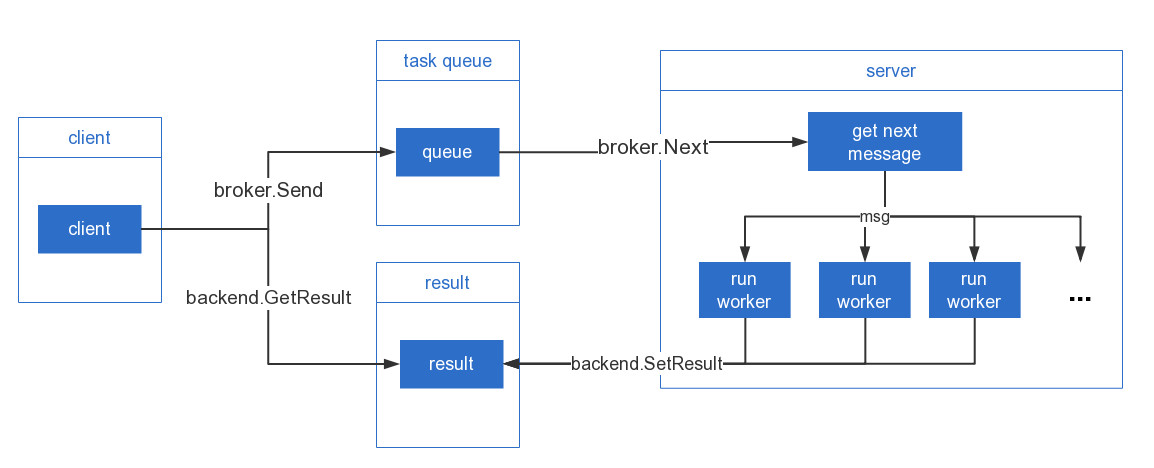
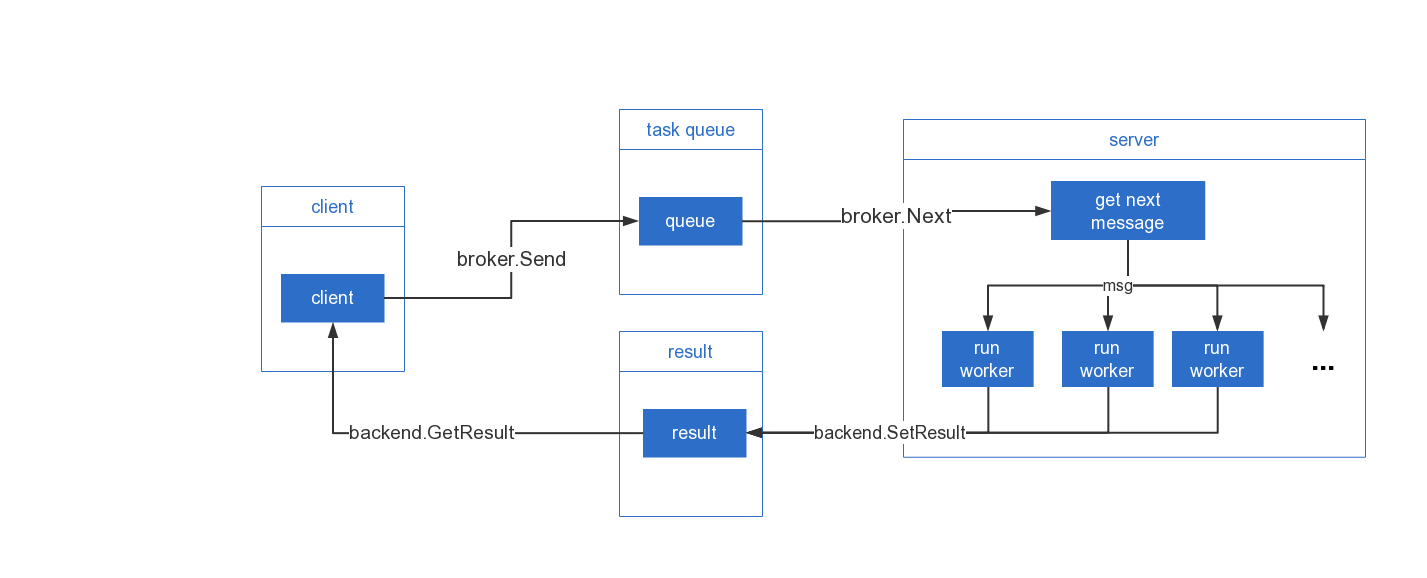
architecture_diagram

diff --git a/README.ZH.md b/README.ZH.md
@@ -10,6 +10,8 @@ golang异步任务/队列 框架
 ```bash
 go get github.com/gojuukaze/YTask
 ```
+# 架构图
+<img src="./architecture_diagram.png" alt="architecture_diagram" width="75%">
 
 # todo
 - [x] save result  
@@ -19,6 +21,7 @@ go get github.com/gojuukaze/YTask
 - [ ] 扩展TaskCtl参数
 - [ ] 支持更多类型
 
+# 文档
 * [快速开始](#快速开始)
   * [server样例](#server-demo)
   * [client样例](#client-demo)
